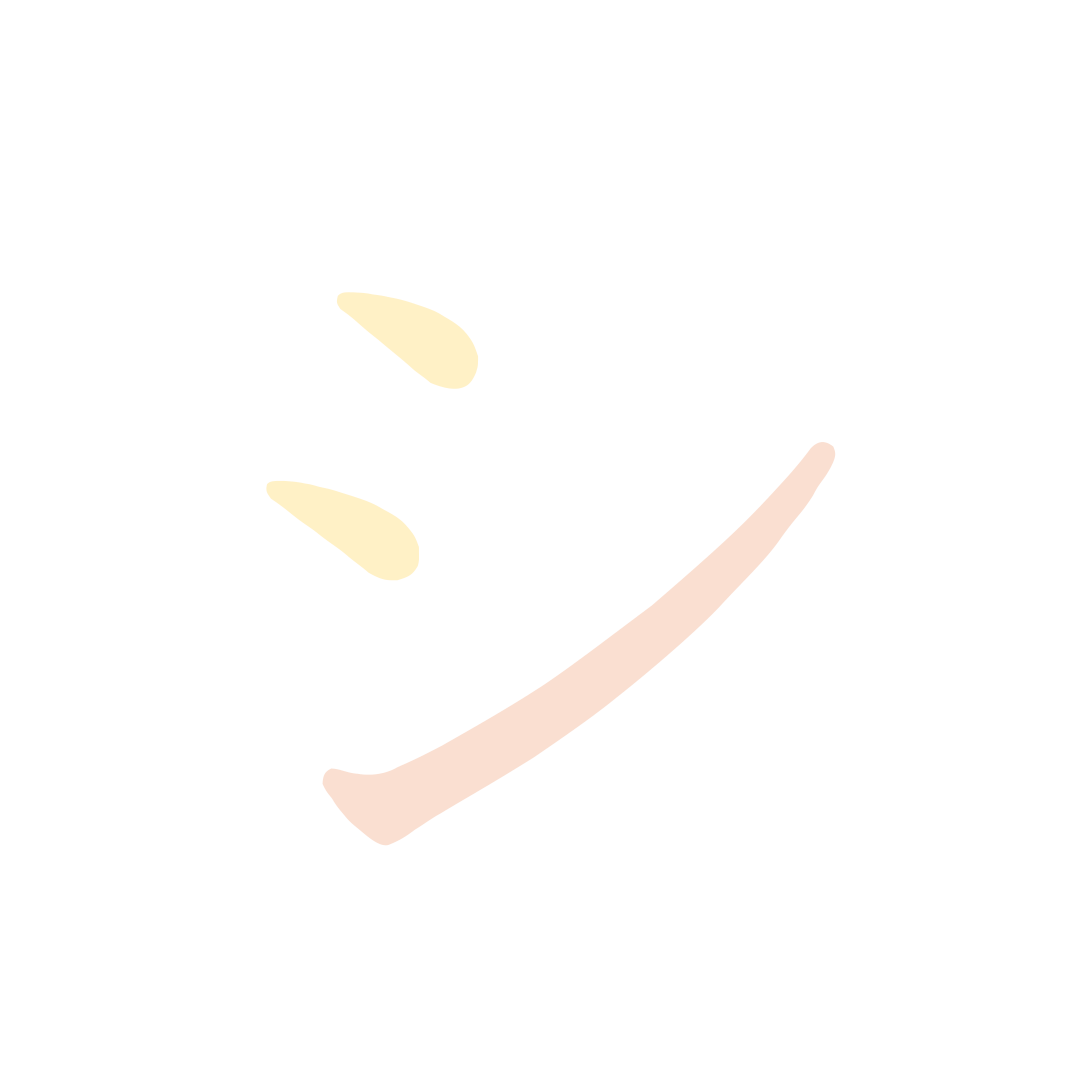
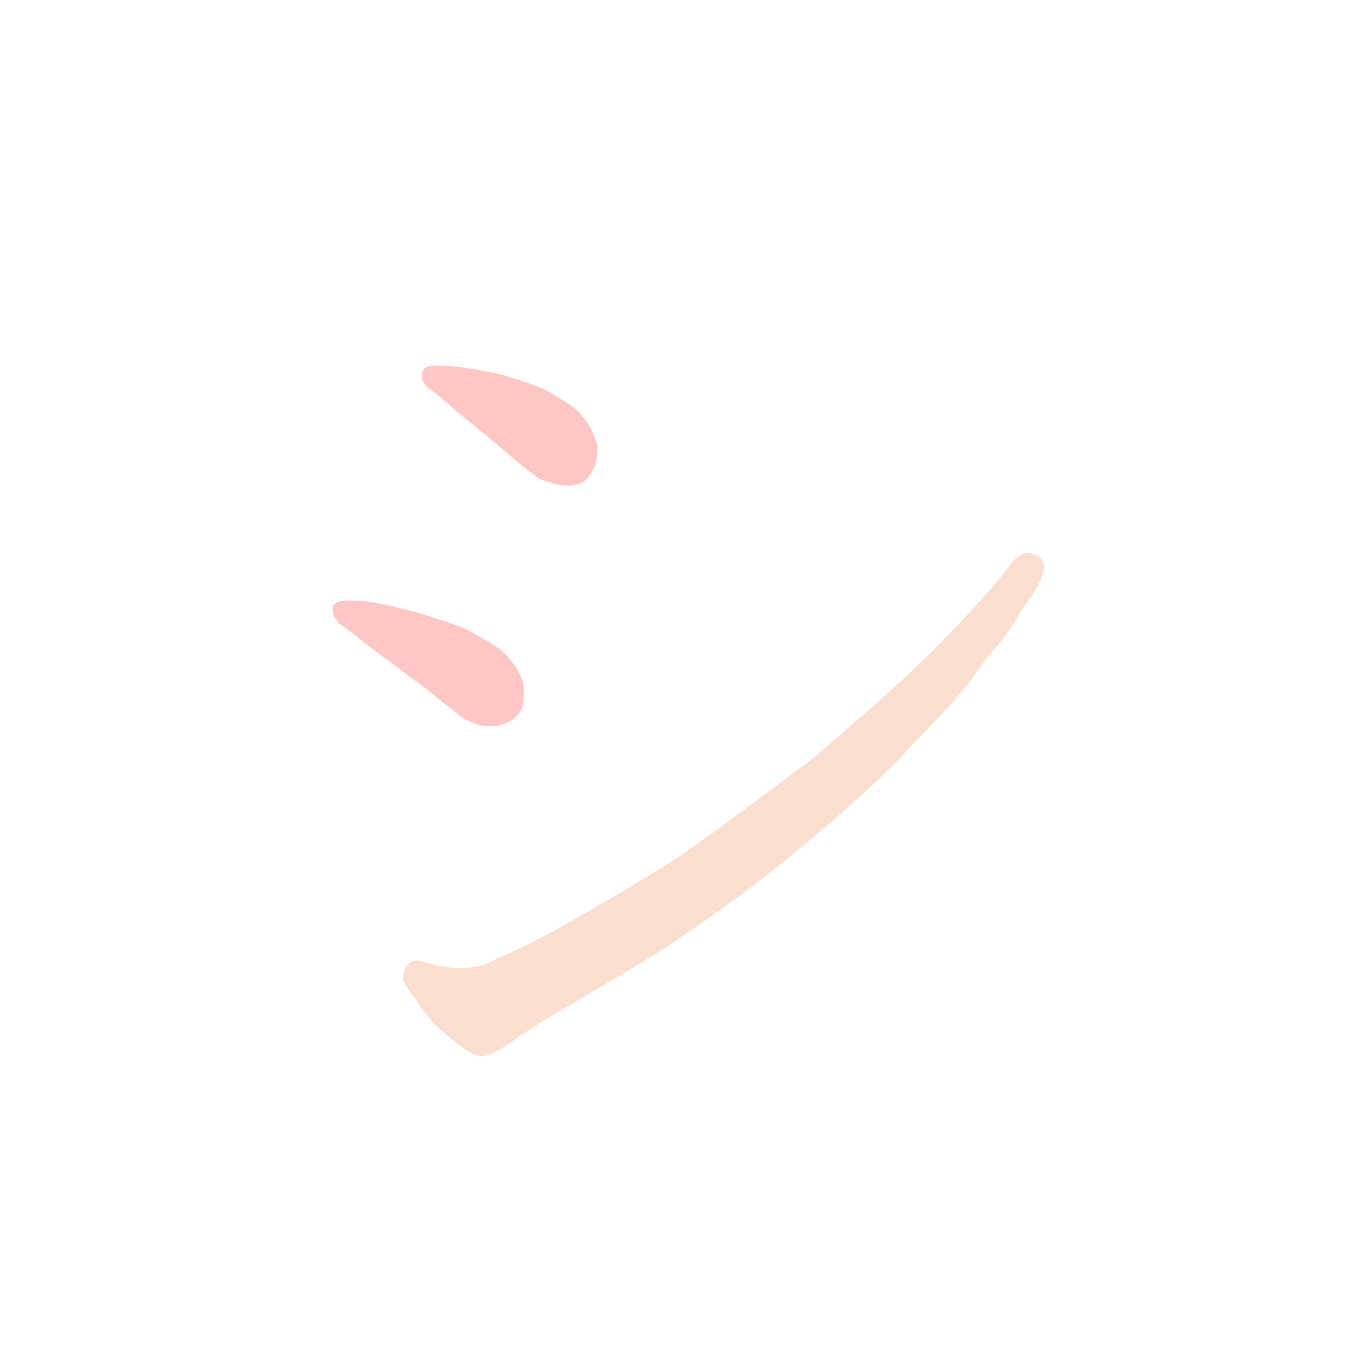
非対応文字の追加

Changed region(s): [[0.2444, 0.4278, 0.3972, 0.55], [0.3056, 0.275, 0.4583, 0.3667]]

diff --git a/style.css b/style.css
@@ -139,8 +139,8 @@ button:disabled{
 
 /* K-codeとJLPTの行：1行目の文字の基準線をそろえて横に並べます。 */
 .info-row{
-    /* 20mmのお手本マスを避け、なぞり書き用マスの左端に表示開始位置をそろえます。 */
-    padding-left:20mm;
+    /* お手本マスの左端に、K-codeの表示開始位置をそろえます。 */
+    padding-left:0;
     box-sizing:border-box;
     display:flex;
     gap:24px;
@@ -152,9 +152,9 @@ button:disabled{
 /* K-codeの領域：横幅を縮められるようにして、右側のJLPT表示の場所を確保します。 */
 .info-row .info-item{
     min-width:0;
-    /* マス目の位置を変えず、K-codeだけを少し右上に寄せます。 */
+    /* 左端をそろえたまま、K-codeを少し上に寄せます。 */
     position:relative;
-    left:1mm;
+    left:0;
     top:-.5mm;
 }
 
@@ -182,17 +182,17 @@ button:disabled{
     color:#555;
 }
 
-/* マス目の列：20mmのお手本と16mmの練習用マス10個を、下端をそろえて並べます。 */
+/* マス目の列：お手本1個と練習用8個を、すべて20mm四方で並べます。 */
 .grid-row{
     display:grid;
-    grid-template-columns:20mm repeat(10, 16mm);
+    grid-template-columns:repeat(9, 20mm);
     align-items:end;
 }
 
-/* 練習用マス：16mm四方の枠を作り、文字を中央に配置します。枠線も寸法に含めます。 */
+/* 練習用マス：お手本と同じ20mm四方にします。枠線も寸法に含めます。 */
 .box{
-    width:16mm;
-    height:16mm;
+    width:20mm;
+    height:20mm;
     border:1.2pt solid #777;
     position:relative;
     display:flex;
@@ -225,13 +225,30 @@ button:disabled{
     z-index:2;
 }
 
-/* お手本のマス：練習用より大きい20mm四方にし、はみ出す画像を枠内で切り取ります。 */
+/* お手本のマス：20mm四方で、はみ出す画像を枠内で切り取ります。 */
 .sample-box{
     width:20mm;
     height:20mm;
-    font-weight:bold;
-    font-size:38pt;
+    font-weight:300;
+    font-size:44pt;
     overflow:hidden;
+}
+
+/* K-code未登録のお手本は、画像ではなく黒い教科書体の文字で表示します。 */
+.font-sample{
+    font-family:"游教科書体", "YuKyokasho", "Yu Kyokasho", "YuKyokasho Yoko", serif;
+    /* 細めの文字を指定し、利用できない場合も合成の太字にはしません。 */
+    font-weight:100;
+    font-synthesis:none;
+    /* 細い書体がない場合も、白い輪郭線で文字の線幅を少し細く見せます。 */
+    -webkit-text-stroke:.4px #fff;
+    color:#000;
+    line-height:1;
+}
+
+/* なぞり書き用は同じ文字を薄い灰色にし、白黒で印刷できます。 */
+.tracing-sample .font-sample{
+    color:#cfcfcf;
 }
 
 /* お手本画像：縦横比を保って115%の大きさで表示し、中心線より後ろに配置します。 */
@@ -251,6 +268,9 @@ button:disabled{
 
 /* 枠と十字線は薄くせず、お手本の文字・画像だけを薄く表示します。 */
 .tracing-sample{
+    /* 文字のお手本と同じ大きさにし、なぞりやすくします。 */
+    font-size:44pt;
+    font-weight:300;
     /* 親マスの内側に固定し、印刷時のFlexによる画像の縮小を防ぎます。 */
     position:absolute;
     inset:0;
@@ -464,9 +484,9 @@ button:disabled{
     margin-top:0;
 }
 
-/* お手本20mmと練習マス16mmの高さの差を詰め、K-codeを練習マスの直上に配置します。 */
+/* すべてのマスが同じ高さになったため、以前の4mmの重ね合わせを解除します。 */
 .first-page .info-row{
-    margin-bottom:-4mm;
+    margin-bottom:0;
 }
 
 /* 1枚目の下線練習欄：高さを12mmにし、マス目との間を1mmにします。 */
@@ -480,9 +500,9 @@ button:disabled{
     margin-bottom:4mm;
 }
 
-/* 2枚目以降も、練習マスとの高さの差4mmを詰めます。 */
+/* 2枚目以降も、マスとK-codeを重ねずに配置します。 */
 .pdf-page:not(.first-page) .info-row{
-    margin-bottom:-4mm;
+    margin-bottom:0;
 }
 
 /* 2枚目以降の下線練習欄：高さを10mmにし、マス目との間を1mmにします。 */
@@ -739,9 +759,9 @@ button:disabled{
         margin-bottom:4mm;
     }
 
-    /* 印刷時も練習マスとの高さの差4mmを詰めます。 */
+    /* 印刷時も、マスとK-codeを重ねずに配置します。 */
     .pdf-page:not(.first-page) .info-row{
-        margin-bottom:-4mm;
+        margin-bottom:0;
     }
 
     /* 2枚目以降の下線練習欄：高さを10mmにし、マス目との間を1mmにします。 */
@@ -770,26 +790,26 @@ button:disabled{
         font-size:11pt;
     }
 
-    /* マス目の列：20mmのお手本と16mmの練習用マス10個を、下端をそろえて並べます。 */
+    /* 印刷時も、お手本1個と練習用8個を20mm幅で並べます。 */
     .grid-row{
         display:grid;
-        grid-template-columns:20mm repeat(10, 16mm);
+        grid-template-columns:repeat(9, 20mm);
         align-items:end;
     }
 
-    /* 印刷時の練習用マス：16mm四方を維持し、枠線を1.5ptにします。 */
+    /* 印刷時の練習用マス：20mm四方を維持し、枠線を1.5ptにします。 */
     .box{
-        width:16mm;
-        height:16mm;
+        width:20mm;
+        height:20mm;
         font-size:30pt;
         border:1.5pt solid #555;
     }
 
-    /* お手本のマス：練習用より大きい20mm四方にし、はみ出す画像を枠内で切り取ります。 */
+    /* 印刷時のお手本も20mm四方にします。 */
     .sample-box{
         width:20mm;
         height:20mm;
-        font-size:38pt;
+        font-size:44pt;
     }
 
     /* なぞりマスの内寸も画面と同じにし、画像サイズの変化を防ぎます。 */

diff --git a/script.js b/script.js
@@ -1864,8 +1864,8 @@ const pdfButton = document.getElementById("pdfButton");
 // アルファベット法かTPR法を選ぶ欄を取得します。
 const methodSelect = document.getElementById("methodSelect");
 
-// 1文字につき、練習用の空白マスを10個作る設定です。
-const practiceBoxCount = 10;
+// 1文字につき、なぞり書き1個と空白7個の練習用マスを作ります。
+const practiceBoxCount = 8;
 
 // 1枚目に入れる文字数です。
 const firstPageWorksheets = 5;
@@ -2088,8 +2088,8 @@ function convert() {
     // 選ばれている方式を取得します。何もなければアルファベット法にします。
     const selectedMethod = methodSelect ? methodSelect.value : "a_code";
 
-    // ひらがなをカタカナに直してから、対応する文字データを探します。
-    const chars = Array.from(hiraganaToKatakana(input.value.trim()));
+    // 元の文字種も確認できるように、ひらがなの変換は1文字ずつ行います。
+    const chars = Array.from(input.value.trim().normalize("NFC"));
     // 未対応文字はページを作らず、プレビュー上部のメッセージにまとめます。
     const unsupportedChars = [];
 
@@ -2103,12 +2103,17 @@ function convert() {
     let worksheetCountOnPage = 0;
 
     // 入力された文字を1文字ずつ処理します。
-    chars.forEach((char) => {
+    chars.forEach((originalChar) => {
+        const char = hiraganaToKatakana(originalChar);
         const baseChar = smallKanaBases[char] || char;
         const isSmallKana = baseChar !== char;
-        // 未対応文字は練習欄の数に含めず、印刷用ページにも追加しません。
-        if (!Object.hasOwn(kcodeData, baseChar)) {
-            unsupportedChars.push(char);
+        const hasRegisteredCode = Object.hasOwn(kcodeData, baseChar)
+            && Boolean(kcodeData[baseChar].a_code?.trim());
+        // 未登録の文字も教科書体で練習できます。ただし、ひらがな・ローマ字・数字・記号は除きます。
+        const canUseFontSample = /^\p{L}$/u.test(originalChar)
+            && !/[\p{Lm}\p{Script=Hiragana}\p{Script=Latin}]/u.test(originalChar);
+        if (!hasRegisteredCode && !canUseFontSample) {
+            unsupportedChars.push(originalChar);
             return;
         }
 
@@ -2127,10 +2132,9 @@ function convert() {
             page = createPage(pageNumber);
         }
 
-        // 入力された文字のデータが登録されている場合の処理です。
-        if (kcodeData[baseChar]) {
-            // その文字に対応するデータを取り出します。
-            const data = kcodeData[baseChar];
+        // 未登録の文字は、K-codeやレベルを補わずに練習欄だけを作ります。
+        if (hasRegisteredCode || canUseFontSample) {
+            const data = hasRegisteredCode ? kcodeData[baseChar] : {};
 
             // アルファベット法だけを登録し、TPR法を選んだときに自動変換します。
             const alphabetCode = data.a_code ?? "";
@@ -2139,16 +2143,16 @@ function convert() {
             // K-codeの記号を色分けしたHTMLに変換します。
             const coloredCode = colorizeKcode(selectedCode);
 
-            // お手本画像がある場合は画像を表示し、ない場合は文字そのものを表示します。
+            // K-code未登録の場合はカラー画像を使わず、黒い教科書体の文字を表示します。
             const sampleGlyph = data.image
                 ? `<img class="sample-image" src="${data.image}" alt="${char}のお手本">`
-                : baseChar;
+                : `<span class="font-sample">${baseChar}</span>`;
             // 小書き文字だけ、小さくしたお手本をマスの左下に配置します。
             const sampleContent = isSmallKana
                 ? `<span class="small-kana-glyph">${sampleGlyph}</span>`
                 : sampleGlyph;
 
-            // 練習用10マスのうち、お手本のすぐ隣だけ薄いお手本を入れます。
+            // 練習用8マスのうち、お手本のすぐ隣だけ薄いお手本を入れます。
             const practiceBoxes = Array.from({ length: practiceBoxCount }, (_, index) => {
                 return index === 0
                     ? `<div class="box tracing-box"><span class="tracing-sample">${sampleContent}</span></div>`
@@ -2159,11 +2163,16 @@ function convert() {
             page.insertAdjacentHTML("beforeend", `
                 <div class="worksheet">
                     <div class="info-row">
+                        ${hasRegisteredCode ? `
                         <div class="info-item">
                             <span class="info-label">K-code</span>
                             <span class="kcode${selectedMethod === "t_code" ? " kcode-tpr" : ""}">${coloredCode}</span>
                         </div>
                         <span class="jlpt-level">JLPT:${data.level}</span>
+                        ` : `<div class="info-item">
+                            <span class="info-label">K-code</span>
+                            <span class="kcode${selectedMethod === "t_code" ? " kcode-tpr" : ""}">非対応</span>
+                        </div>`}
                     </div>
 
                     <div class="grid-row">
@@ -2198,7 +2207,7 @@ function convert() {
         const message = document.createElement("section");
         message.className = "error unsupported-characters";
         message.setAttribute("role", "status");
-        message.textContent = `対応していない文字：${[...new Set(unsupportedChars)].join("，")} `;
+        message.textContent = `非対応の文字：${[...new Set(unsupportedChars)].join("，")} `;
         result.prepend(message);
     }
 

diff --git a/index.html b/index.html
@@ -59,7 +59,7 @@
             <section>
                 <h3 class="usage-step-3">③　「作成」ボタンを押します</h3>
                 <p>入力した文字のワークシートが表示されます。文字や表現方法を変更した場合は、もう一度「作成」を押してください。</p>
-                <p class="usage-note">※対応していない文字は、ワークシートの上に赤文字で表示されます。その文字の練習欄は作成されず、印刷・PDFにも含まれません。</p>
+                <p class="usage-note">※K-codeが未登録の漢字・カタカナなども練習できます。その場合、お手本は黒い教科書体で表示され、K-codeとJLPTレベルは表示されません。対応していないひらがな・ローマ字・数字・記号は、ワークシートの上に赤文字で表示され、印刷・PDFには含まれません。</p>
             </section>
             <section>
                 <h3 class="usage-step-4">④　「Download」ボタンを押します</h3>
